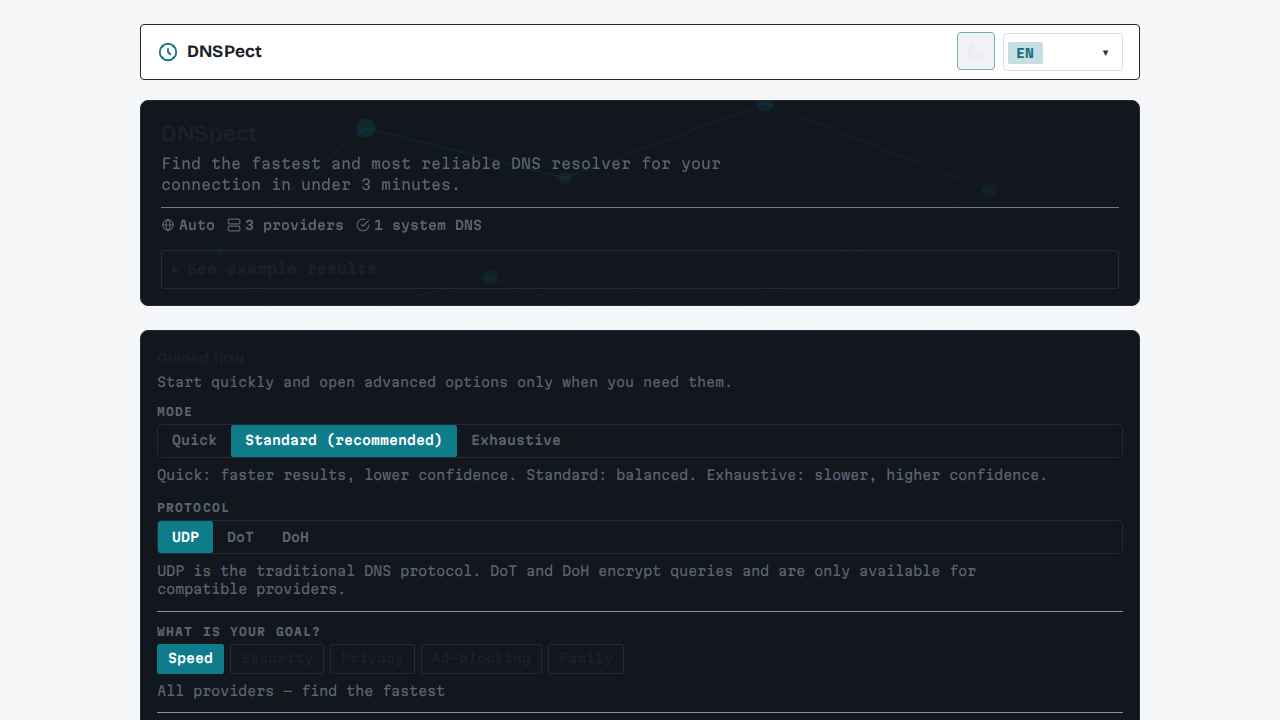
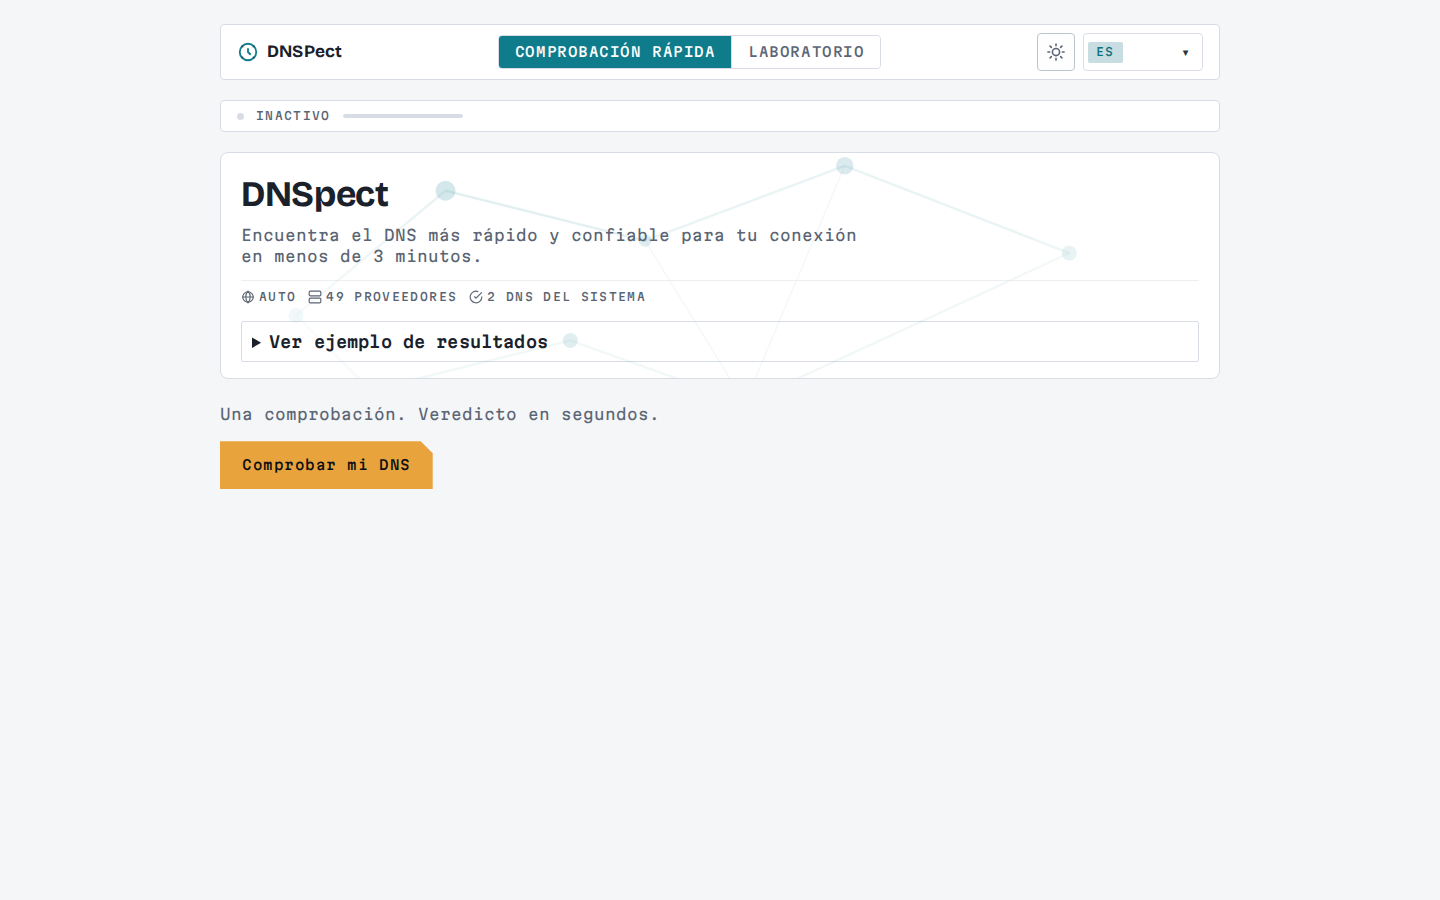
fix(theme): full instrument token set for the light theme

diff --git a/frontend/src/styles.css b/frontend/src/styles.css
@@ -59,6 +59,10 @@
   --ok: #5bb98c;
   --bad: #e06c5f;
   --focus: #5fc9d6;
+  --accent-live-ink: #e8a33d;
+  --accent-active-ink: #5fc9d6;
+  --accent-live-contrast: #0b0e13;
+  --accent-active-contrast: #0b0e13;
 
   --bg: var(--chassis);
   --bg-soft: #0e1219;
@@ -96,6 +100,21 @@
 
 [data-theme='light'] {
   color-scheme: light;
+  --chassis: #f4f5f7;
+  --panel: #ffffff;
+  --panel-raised: #f8f9fb;
+  --hairline: #d8dde5;
+  --ink: #1a212b;
+  --ink-muted: #5b6675;
+  --accent-live: #e8a33d;
+  --accent-live-ink: #a16207;
+  --accent-live-contrast: #0b0e13;
+  --accent-active: #0f7c8c;
+  --accent-active-ink: #0f7c8c;
+  --accent-active-contrast: #ffffff;
+  --ok: #2e7d5b;
+  --bad: #b84a3e;
+  --focus: #0f7c8c;
   --bg: #f5f6f8;
   --bg-soft: #edeff2;
   --surface: #ffffff;
@@ -1016,7 +1035,7 @@ textarea {
 .btn-primary,
 .btn-start {
   background: var(--accent-live);
-  color: var(--chassis);
+  color: var(--accent-live-contrast);
   font-size: 0.85rem;
   padding: 12px 22px;
   min-height: 48px;
@@ -1206,7 +1225,7 @@ textarea {
   border: 1px solid color-mix(in srgb, var(--accent-live) 55%, var(--border));
   border-radius: var(--radius-sm);
   background: color-mix(in srgb, var(--accent-live) 14%, var(--surface-2));
-  color: var(--accent-live);
+  color: var(--accent-live-ink);
   padding: 8px 10px;
   font-weight: 700;
 }
@@ -1484,7 +1503,7 @@ textarea {
   border-radius: var(--radius-micro);
   border: 1px solid color-mix(in srgb, var(--accent-live) 35%, var(--border));
   background: color-mix(in srgb, var(--accent-live) 12%, var(--surface-2));
-  color: var(--accent-live);
+  color: var(--accent-live-ink);
   font-size: 0.7rem;
   font-weight: 500;
   letter-spacing: 0.12em;
@@ -1517,7 +1536,7 @@ textarea {
 }
 
 .live-ranking-updated[data-state='slow'] {
-  color: var(--accent-live);
+  color: var(--accent-live-ink);
 }
 
 .live-ranking-updated[data-state='stalled'] {
@@ -1949,7 +1968,7 @@ thead th {
 /* Tick-row headers — the instrument table signature */
 thead th::before {
   content: '\2500\2500 ';
-  color: var(--accent-active);
+  color: var(--accent-active-ink);
   letter-spacing: 0;
 }
 
@@ -2002,7 +2021,7 @@ tbody tr:last-child td {
 
 .badge-rank-1 {
   background: var(--accent-active);
-  color: var(--chassis);
+  color: var(--accent-active-contrast);
   font-weight: 800;
   border: 1px solid var(--accent-active);
 }
@@ -2083,7 +2102,7 @@ tbody tr:last-child td {
   text-transform: uppercase;
   letter-spacing: 0.12em;
   background: var(--accent-active);
-  color: var(--chassis);
+  color: var(--accent-active-contrast);
   padding: 2px 10px;
   border-radius: var(--radius-micro);
   margin-bottom: var(--space-2);
@@ -2201,7 +2220,7 @@ tbody tr:last-child td {
 
 .dashboard-top5-item.is-primary .dashboard-top5-rank {
   background: var(--accent-active);
-  color: var(--chassis);
+  color: var(--accent-active-contrast);
 }
 
 .dashboard-top5-name {
@@ -2353,7 +2372,7 @@ tbody tr:last-child td {
 
 .chart-tab-active {
   background: var(--accent-active);
-  color: var(--chassis);
+  color: var(--accent-active-contrast);
   border-color: var(--accent-active);
 }
 
@@ -2802,7 +2821,7 @@ tbody tr:last-child td {
 
 .mode-tab.is-active {
   background: var(--accent-active);
-  color: var(--chassis);
+  color: var(--accent-active-contrast);
 }
 
 .mode-tab:focus-visible {
@@ -2887,7 +2906,7 @@ tbody tr:last-child td {
   display: flex;
   align-items: center;
   gap: var(--space-2);
-  color: var(--accent-live);
+  color: var(--accent-live-ink);
   font-size: 0.95rem;
   margin: 0;
 }
@@ -3057,11 +3076,11 @@ tbody tr:last-child td {
 
 @keyframes settle-pulse {
   0% {
-    color: var(--accent-live);
+    color: var(--accent-live-ink);
     transform: scale(1);
   }
   35% {
-    color: var(--accent-live);
+    color: var(--accent-live-ink);
     transform: scale(1.07);
   }
   100% {

diff --git a/docs/DESIGN_SYSTEM.md b/docs/DESIGN_SYSTEM.md
@@ -52,6 +52,34 @@ hairline `#D9DEE6`, same accent semantics) — implemented in the build
 phase as a `[data-theme='light']` block; dark remains the default. All
 token pairs contrast-checked (WCAG AA; the a11y contract gates).
 
+### Light theme token set (plan 044)
+
+The `[data-theme='light']` block overrides the FULL instrument token
+set (legacy aliases kept as-is for the older components):
+
+| Token | Light value | Dark value | Use / contrast note |
+|---|---|---|---|
+| `--chassis` | `#F4F5F7` | `#0B0E13` | page paper (slight cool cast) |
+| `--panel` | `#FFFFFF` | `#12161D` | cards, panels |
+| `--panel-raised` | `#F8F9FB` | `#171C25` | hover/active surfaces, modals |
+| `--hairline` | `#D8DDE5` | `#232A36` | 1px borders, dividers |
+| `--ink` | `#1A212B` | `#E6EAF1` | primary text (16.2:1 on panel) |
+| `--ink-muted` | `#5B6675` | `#98A2B3` | secondary text (5.8:1 on panel) |
+| `--accent-live` | `#E8A33D` | `#E8A33D` | amber FILL (unchanged per theme) |
+| `--accent-live-ink` | `#A16207` | `#E8A33D` | amber as TEXT (4.5:1 on paper / 9.0:1 on chassis) |
+| `--accent-live-contrast` | `#0B0E13` | `#0B0E13` | text ON the amber fill (9.0:1) |
+| `--accent-active` | `#0F7C8C` | `#5FC9D6` | cyan FILL |
+| `--accent-active-ink` | `#0F7C8C` | `#5FC9D6` | cyan as TEXT (4.5:1 on paper / 10.0:1 on chassis) |
+| `--accent-active-contrast` | `#FFFFFF` | `#0B0E13` | text ON the cyan fill (4.9:1 / 10.0:1) |
+| `--ok` | `#2E7D5B` | `#5BB98C` | success (5.0:1 on panel) |
+| `--bad` | `#B84A3E` | `#E06C5F` | failure (5.1:1 on panel) |
+| `--focus` | `#0F7C8C` | `#5FC9D6` | keyboard focus rings |
+| `--accent-contrast` | `#FFFFFF` | chassis | text on the `--accent` fill (segmented/chips) |
+
+Pattern for future fill+text pairs: one fill value per theme plus one
+text-on-fill value per theme (`-contrast` for text on fills, `-ink`
+for the accent used as body text).
+
 ### Spacing scale
 
 `--space-1: 4px` … `--space-8: 40px` (existing scale kept: 4, 8, 12, 16,
